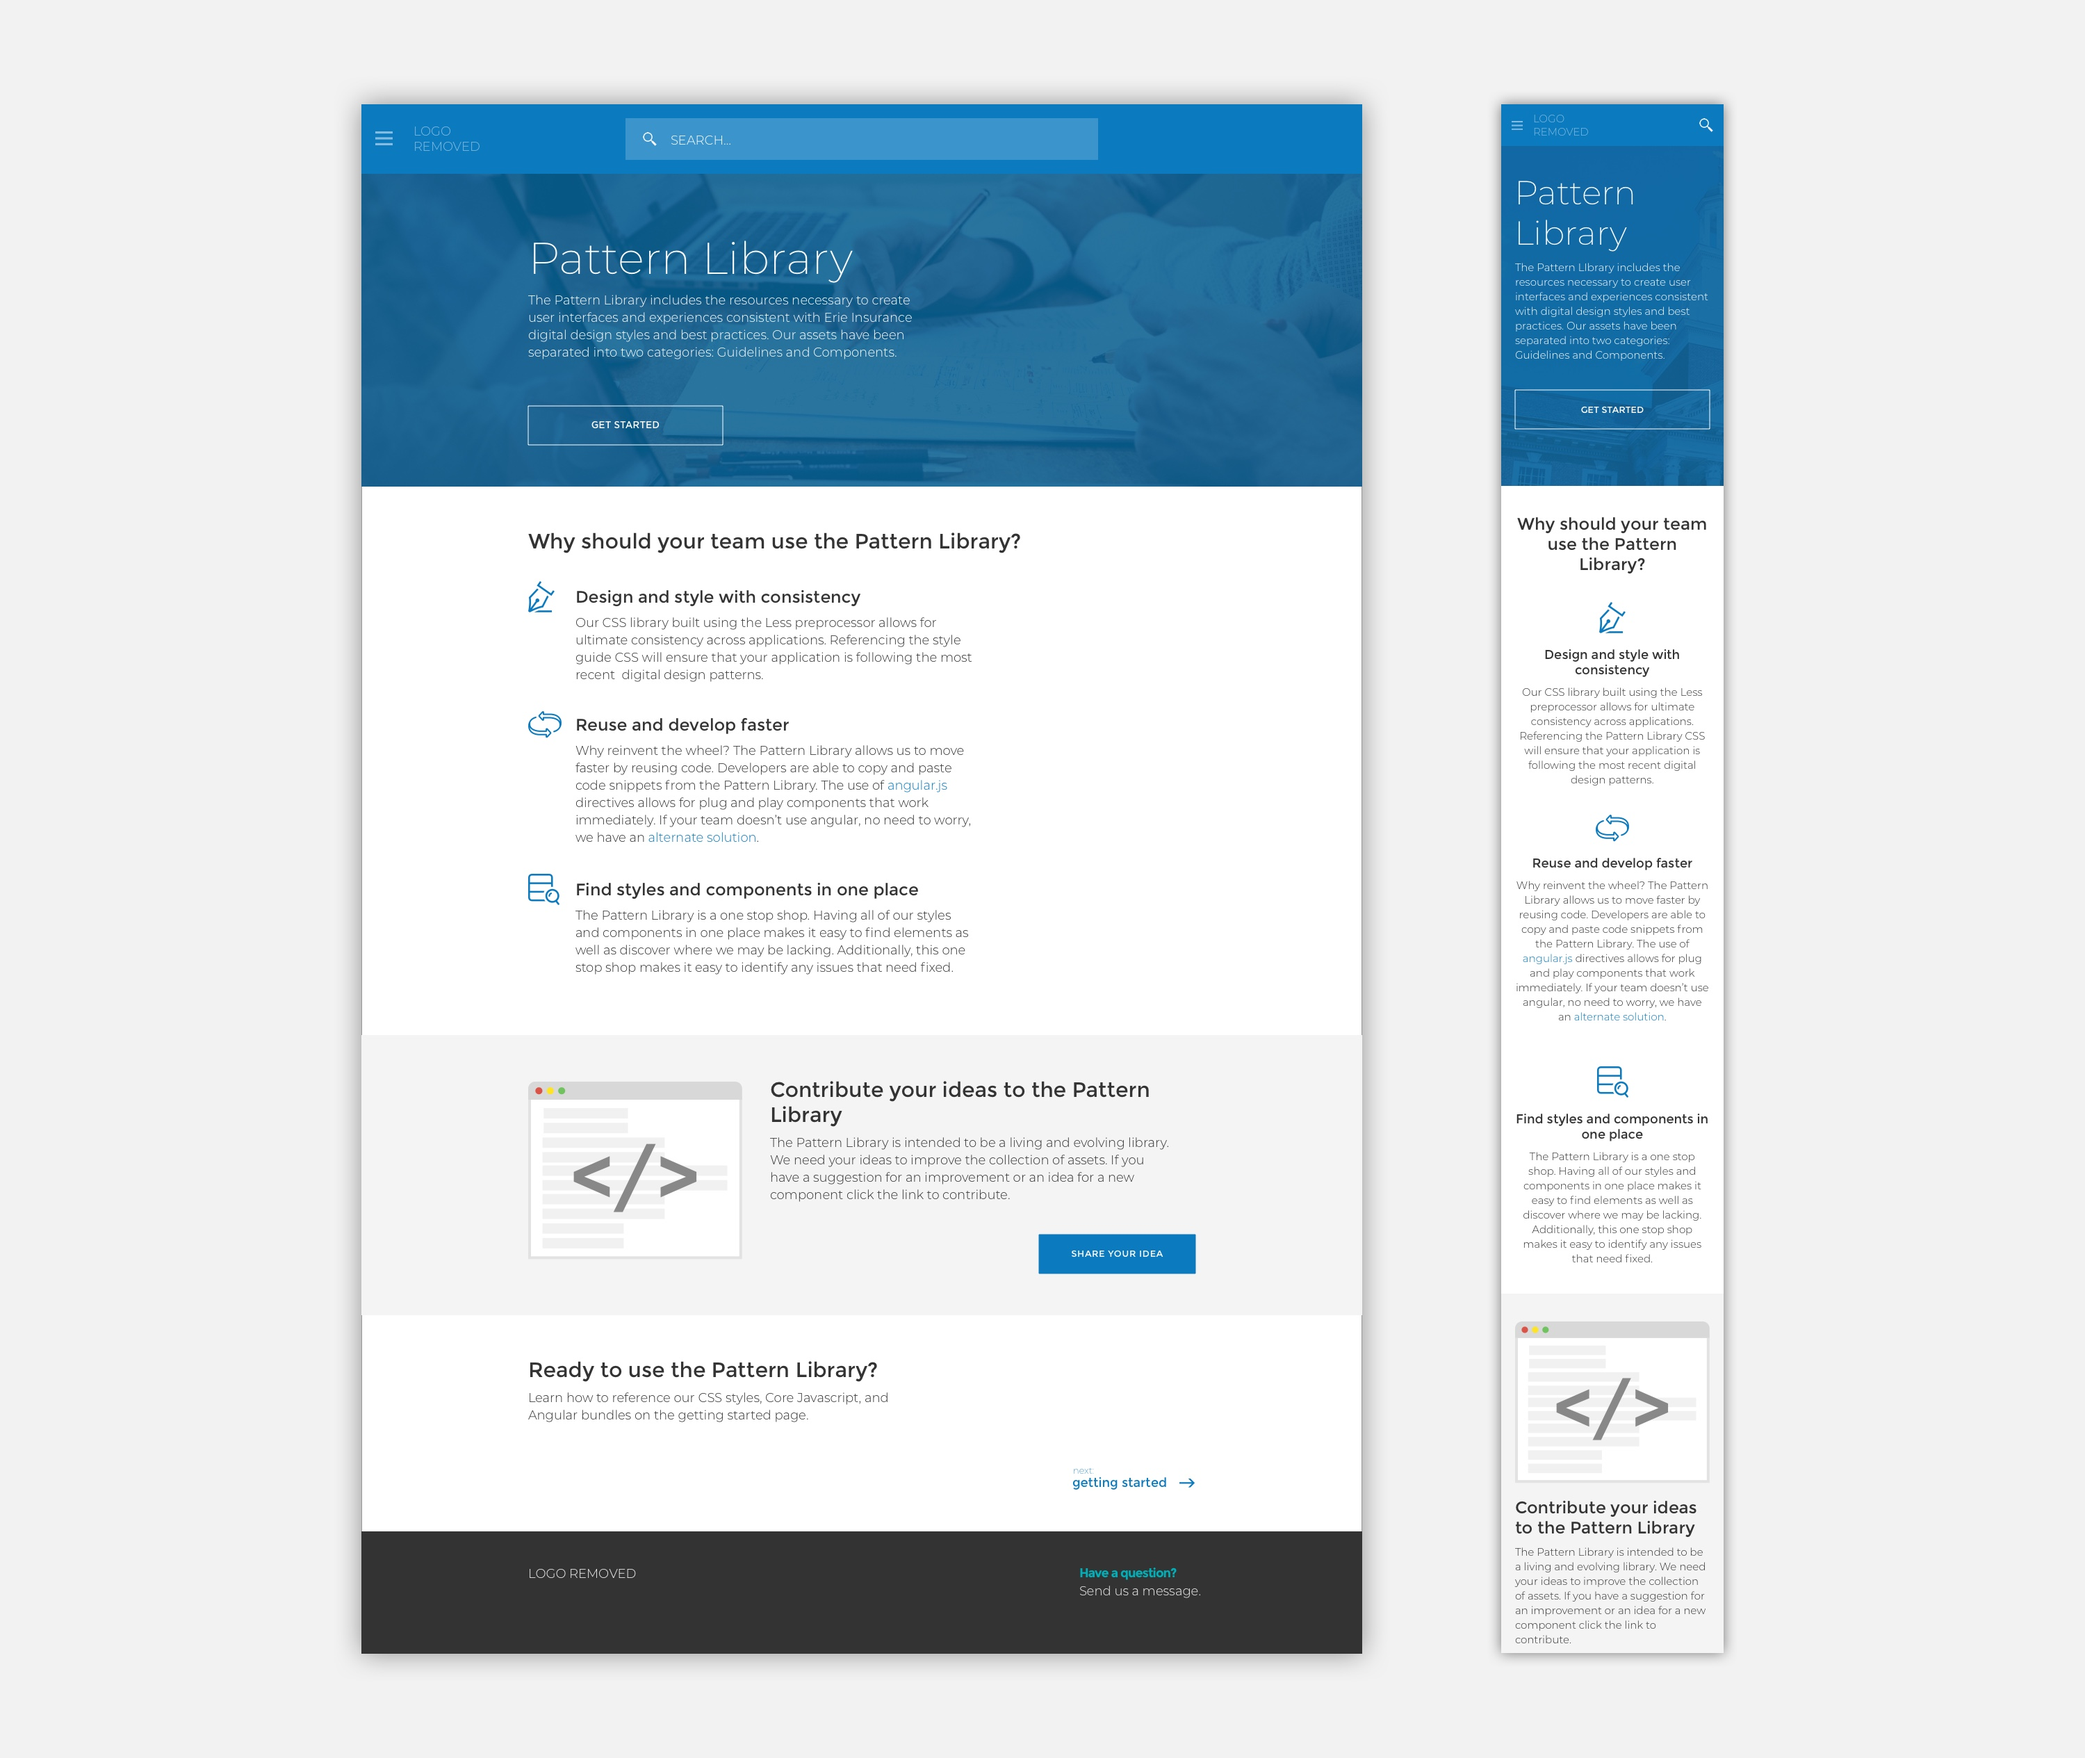
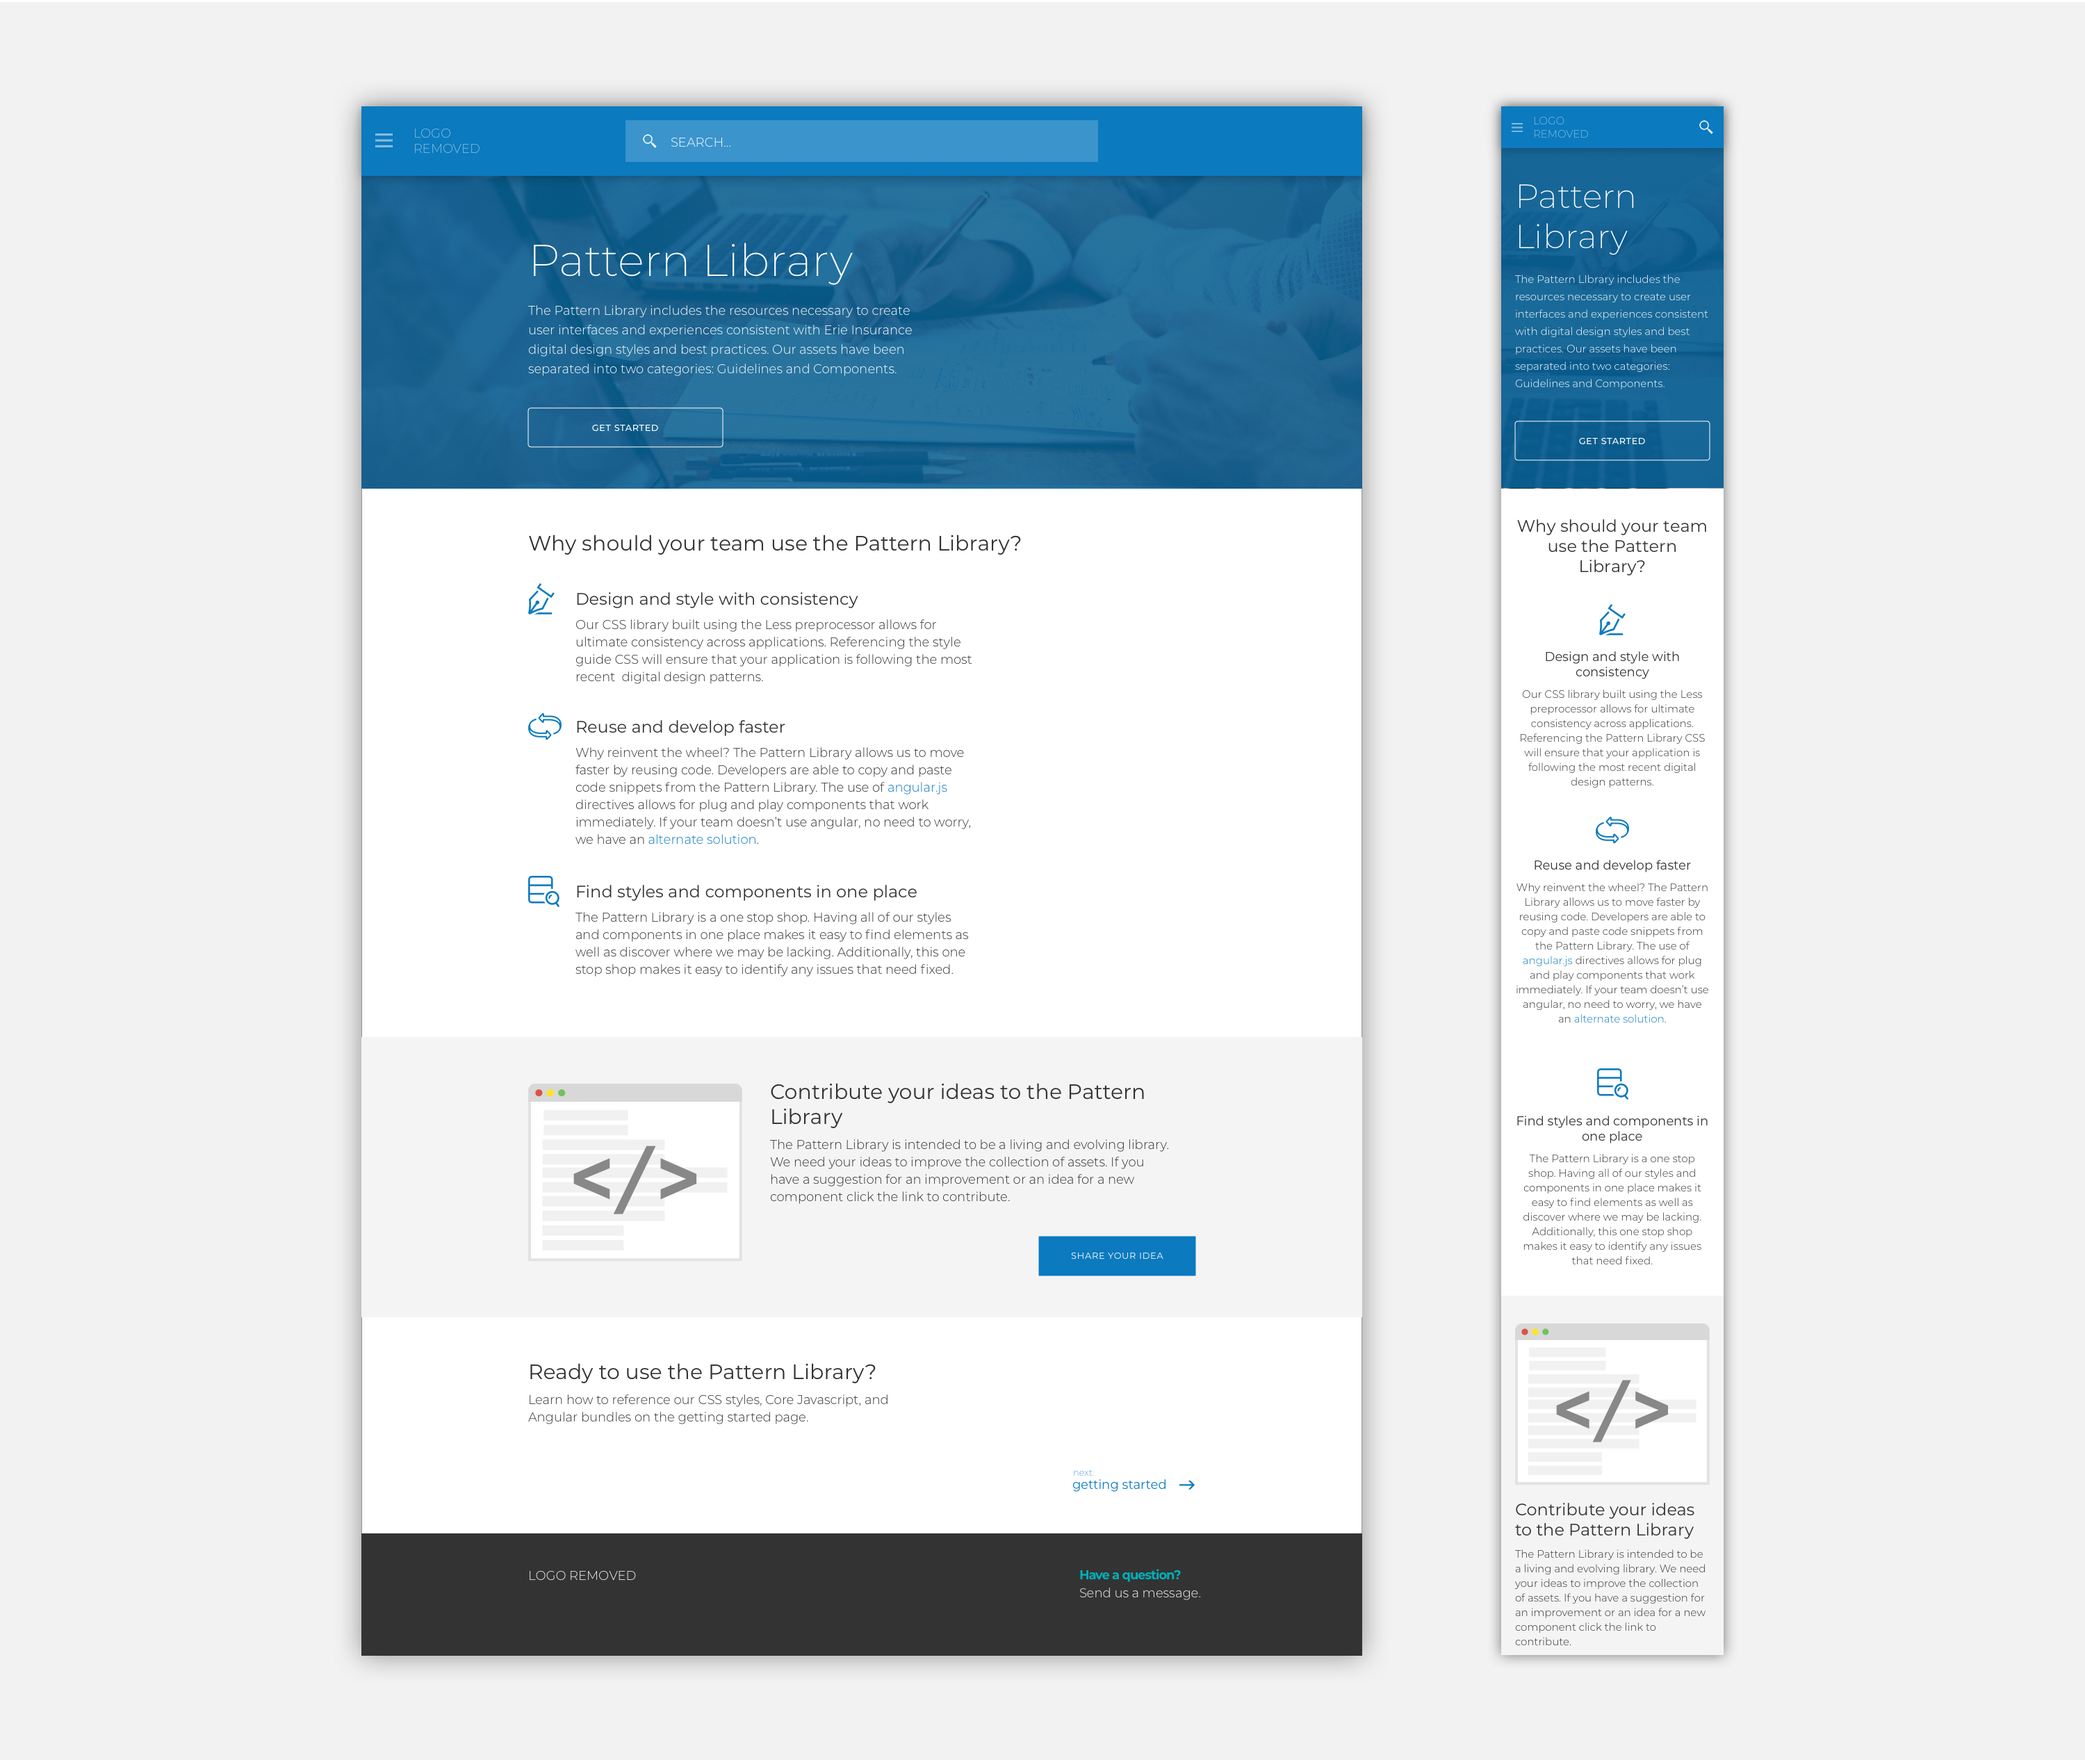
master. Updating projects with header images.

diff --git a/docs/css/layout.css b/docs/css/layout.css
@@ -154,18 +154,17 @@ section {
   color: white; }
 
 .section-separator-large {
-  margin-top: 160px; }
+  margin-top: 100px; }
 
 .section-separator {
   margin-top: 40px; }
 
 .subpage-section-separator {
-  margin-top: 100px;
+  margin-top: 40px;
   display: grid;
-  grid-column: 3/5;
-  text-align: right; }
+  grid-column: 2/5; }
   .subpage-section-separator h1 {
-    margin: -5px 0; }
+    margin: 0 0 20px; }
   .subpage-section-separator span {
     color: #C09F6D; }
 
@@ -180,7 +179,7 @@ section {
     margin-top: 3rem; }
   .main-content .design-process-diagram {
     grid-column: 2/5;
-    width: 65%;
+    width: 100%;
     margin: 1rem auto 0; }
   .main-content .icon-reference {
     font-size: .5rem;
@@ -250,9 +249,10 @@ section {
     height: 40px; }
 
 .subpage-section-heading {
-  background-color: #29333a;
-  color: white;
+  color: #29333a;
   padding-bottom: 60px; }
+  .subpage-section-heading img {
+    width: 100%; }
 
 .section-header {
   padding: 10px 0;
@@ -291,12 +291,12 @@ section {
       margin-top: 40px; }
 
 .quote-section {
-  padding: 8rem 0;
+  padding: 3rem 0;
   text-align: center; }
   .quote-section h2 {
-    font-size: 3rem; }
+    font-size: 1rem; }
   .quote-section p {
-    font-size: 1.5rem;
+    font-size: 1rem;
     margin: 1rem auto 0; }
 
 .visit-website-section {
@@ -322,6 +322,10 @@ section {
   .main-content {
     max-width: 960px;
     margin: 0 auto; }
+    .main-content .design-process-diagram {
+      grid-column: 2/5;
+      width: 65%;
+      margin: 1rem auto 0; }
   .section-header, .section-content {
     grid-column: 2/5; }
   .section-content.project-section {
@@ -350,13 +354,18 @@ section {
       margin-top: 80px; }
   .project-image-container .album-image {
     grid-column: auto; }
+  .quote-section {
+    padding: 8rem 0;
+    text-align: center; }
+    .quote-section h2 {
+      font-size: 3rem; }
   .tre-image-container img {
     width: 50%;
     margin: 2rem auto; }
   .subpage-section-separator {
-    margin-top: 160px; }
+    margin-top: 80px; }
     .subpage-section-separator h1 {
-      margin: -10px 0; }
+      margin: 0 0 40px; }
   .horizontal-separator {
     grid-column: 2/5;
     margin: 80px 0;

diff --git a/docs/scss/layout.scss b/docs/scss/layout.scss
@@ -95,18 +95,17 @@ section {
     color: white;
 }
 .section-separator-large {
-    margin-top: 160px;
+    margin-top: 100px;
 }
 .section-separator {
     margin-top: 40px;
 }
 .subpage-section-separator {
-    margin-top: 100px;
+    margin-top: 40px;
     display: grid;
-    grid-column: 3/5;
-    text-align: right;
+    grid-column: 2/5;
     h1 {
-        margin: -5px 0;
+        margin: 0 0 20px;
     }
     span {
         color: $secondary;
@@ -126,7 +125,7 @@ section {
     }
     .design-process-diagram {
         grid-column: 2/5;
-        width: 65%;
+        width: 100%;
         margin: 1rem auto 0;
     }
     .icon-reference {
@@ -208,9 +207,11 @@ section {
     }
 }
 .subpage-section-heading {
-    background-color: $primary-dark;
-    color: white;
+    color: $primary-dark;
     padding-bottom: 60px;
+    img {
+        width: 100%;
+    }
 }
 .section-header {
     padding: 10px 0;
@@ -261,13 +262,13 @@ section {
     }   
 }
 .quote-section {
-    padding: 8rem 0;    
+    padding: 3rem 0;    
     text-align: center;
     h2 {
-        font-size: 3rem;
+        font-size: 1rem;
     }
     p {
-        font-size: 1.5rem;
+        font-size: 1rem;
         margin: 1rem auto 0;
     }
 }
@@ -297,7 +298,12 @@ section {
     }
     .main-content {
         max-width: 960px;
-        margin: 0 auto
+        margin: 0 auto;
+        .design-process-diagram {
+            grid-column: 2/5;
+            width: 65%;
+            margin: 1rem auto 0;
+        }
     }
     .section-header, .section-content {
         grid-column: 2/5;
@@ -340,14 +346,21 @@ section {
     .project-image-container .album-image {
         grid-column: auto;
     }
+    .quote-section {
+        padding: 8rem 0;    
+        text-align: center;
+        h2 {
+            font-size: 3rem;
+        }
+    }
     .tre-image-container img {
         width: 50%;
         margin: 2rem auto;
     }
     .subpage-section-separator {
-        margin-top: 160px;
+        margin-top: 80px;
         h1 {
-            margin: -10px 0;
+            margin: 0 0 40px;
         }
     }
     .horizontal-separator {

diff --git a/docs/commercial.html b/docs/commercial.html
@@ -7,7 +7,7 @@
     <meta name="description" content="This is the portfolio site for User Experience Designer, Colin Kimball." />
     <meta charset="utf-8" />
     <title>Colin Kimball's Portfolio</title>
-    
+
     <link rel="icon" href="images/favicon.png">
 
     <!--build:css css/style.min.css -->
@@ -39,8 +39,8 @@
     <section class="subpage-section-heading">
         <div class="grid-container main-content">
             <div class="subpage-section-separator">
-                <h1 class="main-header"><span class="extra-light">commercial</span></h1>
-                <h1 class="main-header">insurance application</h1>
+                <h1>Commercial Insurance Application</h1>
+                <img src="images/commercial_header.png">
             </div>
         </div>
     </section>
@@ -101,7 +101,8 @@
             <h1>Locations</h1>
             <p>The primary location entered on the Customer page is pre-populated on the Locations page. Agents
                 can then add multiple locations or buildings at a location here. The location and building count is
-                shown at the top of the tab list for middle market policies that have a lot of locations and buildings.</p>
+                shown at the top of the tab list for middle market policies that have a lot of locations and buildings.
+            </p>
             <img src="images/commercial_location.png">
         </div>
     </section>

diff --git a/docs/theromanticera.html b/docs/theromanticera.html
@@ -9,7 +9,7 @@
     <title>Colin Kimball's Portfolio</title>
 
     <link rel="icon" href="images/favicon.png">
-    
+
     <!--build:css css/style.min.css -->
     <link rel="stylesheet" href="css/button.css" />
     <link rel="stylesheet" href="css/font.css" />
@@ -39,7 +39,8 @@
     <section class="subpage-section-heading">
         <div class="grid-container main-content">
             <div class="subpage-section-separator">
-                <h1 class="main-header">the romantic era</h1>
+                <h1>The Romantic Era</h1>
+                <img src="images/theromanticera_thumbnail.jpg">
             </div>
         </div>
     </section>
@@ -133,7 +134,7 @@
         <p>Phone: 814-490-6405</p>
         <p>Email: ckimball11@gmail.com</p>
         <!-- <a role="button" class="button button-primary-outline" href="images/colin_kimball_resume.pdf" target="_blank">View Resume</a>  -->
-        <div class="footer-bottom>
+        <div class="footer-bottom">
             <p>Colin Kimball &copy; 2019</p>
         </div>
     </footer>

diff --git a/docs/vinoshares.html b/docs/vinoshares.html
@@ -9,7 +9,7 @@
     <title>Colin Kimball's Portfolio</title>
 
     <link rel="icon" href="images/favicon.png">
-    
+
     <!--build:css css/style.min.css -->
     <link rel="stylesheet" href="css/button.css" />
     <link rel="stylesheet" href="css/font.css" />
@@ -39,7 +39,8 @@
     <section class="subpage-section-heading">
         <div class="grid-container main-content">
             <div class="subpage-section-separator">
-                <h1 class="main-header">vinoshares</h1>
+                <h1>VinoShares</h1>
+                <img src="images/vinoshares_header.png">
             </div>
         </div>
     </section>

diff --git a/docs/index.html b/docs/index.html
@@ -161,7 +161,8 @@
     <section class="grid-container section-medium section-separator-large">
         <div class="section-content main-content">
             <div class="section-content quote-section">
-                <h2 class="heading-large">"Design is not just what it looks like and feels like. Design is how it works."</h2>
+                <h2 class="heading-large">"Design is not just what it looks like and feels like. Design is how it
+                    works."</h2>
                 <p><i>- Steve Jobs</i></p>
             </div>
         </div>

diff --git a/docs/patternlibrary.html b/docs/patternlibrary.html
@@ -39,8 +39,8 @@
     <section class="subpage-section-heading">
         <div class="grid-container main-content">
             <div class="subpage-section-separator">
-                <h1 class="main-header"><span class="extra-light">pattern</span></h1>
-                <h1 class="main-header">library</h1>
+                <h1>Pattern library</h1>
+                <img src="images/patternLibrary_header.png">
             </div>
         </div>
     </section>
